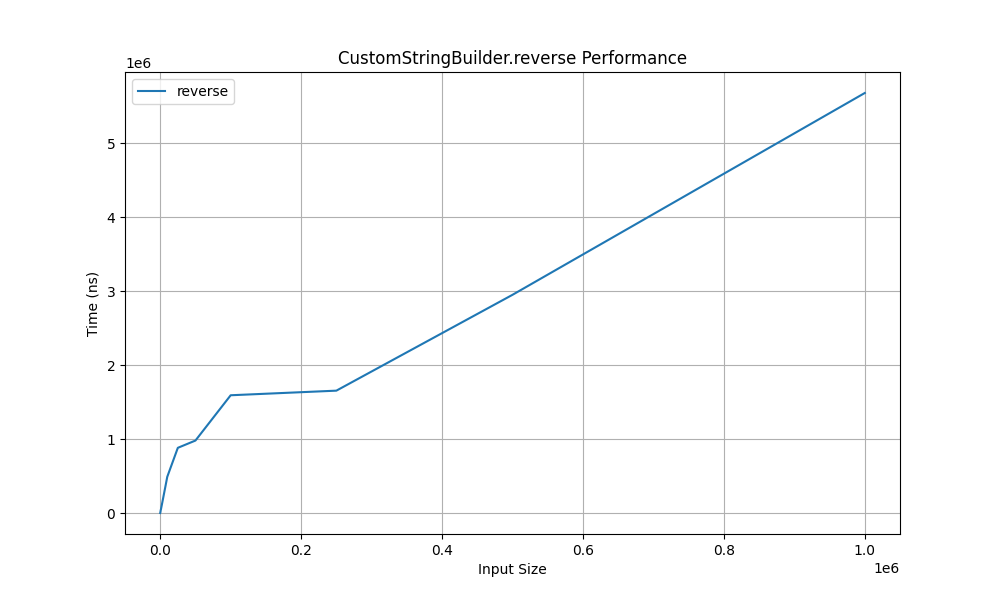
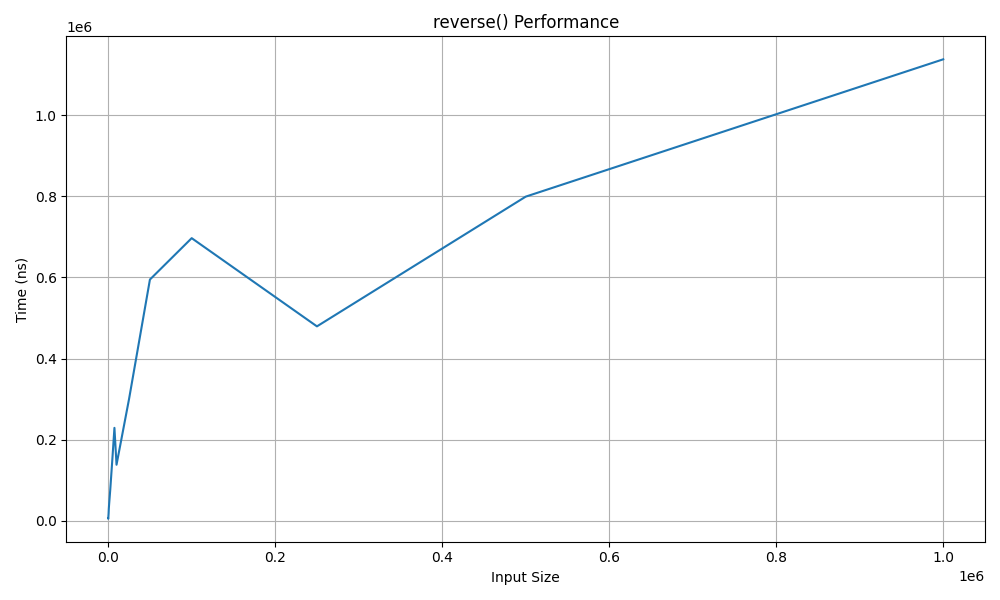
updating performance tests

diff --git a/PerformanceTesting/CustomStringBuilder/CustomStringBuilderPerformanceTest.py b/PerformanceTesting/CustomStringBuilder/CustomStringBuilderPerformanceTest.py
@@ -1,65 +1,62 @@
 import matplotlib.pyplot as plt
 import numpy as np
 import csv
+from collections import defaultdict
 
-sizes = []
-append_times = []
-insert_times = []
-delete_times = []
-replace_times = []
-reverse_times = []
-index_of_times = []
-last_index_of_times = []
-to_string_times = []
-substring_times = []
+filename = '/Users/drpsychoben/PycharmProjects/StringBuilderCharts/CustomStringBuilder/CustomStringBuilder_performance.csv'
 
-with open('/Users/drpsychoben/PycharmProjects/StringBuilderCharts/CustomStringBuilder/CustomStringBuilder_performance.csv', 'r') as csvfile:
-    reader = csv.DictReader(csvfile)
+# Maps size -> method name -> list of times
+size_to_times = defaultdict(lambda: defaultdict(list))
+
+with open(filename, 'r') as csvfile:
+    reader = csv.DictReader(csvfile, delimiter=';')
+
+    # Strip quotes from fieldnames
+    raw_headers = [h.strip().strip('"') for h in reader.fieldnames]
+    method_names_raw = [h for h in raw_headers if h.lower() != 'size']
+
     for row in reader:
-        sizes.append(int(row['Size']))
-        append_times.append(int(row['Append']))
-        insert_times.append(int(row['Insert']))
-        delete_times.append(int(row['Delete']))
-        replace_times.append(int(row['Replace']))
-        reverse_times.append(int(row['Reverse']))
-        index_of_times.append(int(row['IndexOf']))
-        last_index_of_times.append(int(row['LastIndexOf']))
-        to_string_times.append(int(row['ToString']))
-        substring_times.append(int(row['Substring']))
+        size_str = row['Size'].strip().strip('"')
+        try:
+            size = int(size_str)
+        except ValueError:
+            continue
 
-# Convert lists to numpy arrays
-sizes = np.array(sizes)
-append_times = np.array(append_times)
-insert_times = np.array(insert_times)
-delete_times = np.array(delete_times)
-replace_times = np.array(replace_times)
-reverse_times = np.array(reverse_times)
-index_of_times = np.array(index_of_times)
-last_index_of_times = np.array(last_index_of_times)
-to_string_times = np.array(to_string_times)
-substring_times = np.array(substring_times)
+        for method in method_names_raw:
+            val_str = row.get(f'"{method}"') or row.get(method) or ''
+            try:
+                val = int(val_str.strip().strip('"'))
+            except ValueError:
+                val = 0
+            size_to_times[size][method].append(val)
 
-methods = [
-    ("append", append_times),
-    ("insert", insert_times),
-    ("delete", delete_times),
-    ("replace", replace_times),
-    ("reverse", reverse_times),
-    ("indexOf", index_of_times),
-    ("lastIndexOf", last_index_of_times),
-    ("toString", to_string_times),
-    ("substring", substring_times),
-]
+# Aggregate: compute average times per method per input size
+sizes = sorted(size_to_times.keys())
+method_times = {method: [] for method in method_names_raw}
 
-for method_name, times in methods:
+for size in sizes:
+    for method in method_names_raw:
+        values = size_to_times[size][method]
+        avg = sum(values) / len(values) if values else 0
+        method_times[method].append(avg)
+
+# Plotting
+sizes_np = np.array(sizes)
+
+for method, times in method_times.items():
+    times_np = np.array(times)
+    if len(times_np) != len(sizes_np):
+        print(f"Skipping {method}: mismatched data length ({len(times_np)} vs {len(sizes_np)})")
+        continue
+
     plt.figure(figsize=(10, 6))
-    plt.plot(sizes, times, marker='', linestyle='-', label=method_name, linewidth=1.5)
+    plt.plot(sizes_np, times_np, linestyle='-', label=method, linewidth=1.5)
     plt.xlabel('Input Size')
     plt.ylabel('Time (ns)')
-    plt.title(f'CustomStringBuilder.{method_name} Performance')
+    plt.title(f'{method} Performance')
     plt.grid(True)
-    plt.legend()
-    plt.savefig(f'{method_name}_performance.png')
+    plt.tight_layout()
+    plt.savefig(f'{method.replace(" ", "_").replace("(", "").replace(")", "")}_performance.png')
     plt.close()
 
-print("Charts generated: " + ", ".join(f"{name}_performance.png" for name, _ in methods))
+print("✅ Charts generated for all methods.")

diff --git a/PerformanceTesting/CompareCustomStringBuilderToStringBuilder/compare.py b/PerformanceTesting/CompareCustomStringBuilderToStringBuilder/compare.py
@@ -4,33 +4,48 @@ import csv
 def read_csv(filename):
     data = {}
     with open(filename, 'r') as f:
-        reader = csv.DictReader(f)
+        reader = csv.DictReader(f, delimiter=';')
+        # Normalize headers by stripping quotes from keys
+        headers = [h.strip('"') for h in reader.fieldnames]
+
         for row in reader:
-            size = int(row['Size'])
-            for key, value in row.items():
+            # Build a clean dict with stripped keys and values
+            clean_row = {h.strip('"'): v for h, v in row.items()}
+            size = int(clean_row['Size'])
+            for key, value in clean_row.items():
                 if key == 'Size':
                     continue
                 if key not in data:
                     data[key] = []
-                data[key].append((size, int(value)))
+                # Defensive: Some values may be empty, skip or convert safely
+                try:
+                    val = int(value)
+                except ValueError:
+                    val = 0
+                data[key].append((size, val))
     return data
 
 # Load data from both CSVs
 custom_data = read_csv('/Users/drpsychoben/PycharmProjects/StringBuilderCharts/Compare/CustomStringBuilder_performance.csv')
 stringbuilder_data = read_csv('/Users/drpsychoben/PycharmProjects/StringBuilderCharts/Compare/StringBuilder_performance.csv')
 
-methods = sorted(custom_data.keys())  # Sort for consistent order
-sizes = [size for size, _ in custom_data['Append']]
+# Get the method names sorted for consistent plotting
+methods = sorted(custom_data.keys())
 
-# Create a single figure with subplots stacked vertically
+# Pick sizes from any method (all should have the same sizes)
+some_method = methods[0]
+sizes = [size for size, _ in custom_data[some_method]]
+
+# Create a figure with subplots stacked vertically
 n_methods = len(methods)
 fig, axes = plt.subplots(nrows=n_methods, ncols=1, figsize=(10, 4 * n_methods))
-axes = [axes] if n_methods == 1 else axes  # Handle single method case
+if n_methods == 1:
+    axes = [axes]  # Make iterable
 
 # Plot each method's comparison
 for idx, method in enumerate(methods):
     custom_times = [time for _, time in custom_data[method]]
-    sb_times = [time for _, time in stringbuilder_data[method]]
+    sb_times = [time for _, time in stringbuilder_data.get(method, [(0, 0)] * len(sizes))]
 
     axes[idx].plot(sizes, custom_times, label='CustomStringBuilder')
     axes[idx].plot(sizes, sb_times, label='StringBuilder')
@@ -40,7 +55,6 @@ for idx, method in enumerate(methods):
     axes[idx].legend()
     axes[idx].grid(True)
 
-# Adjust layout and save
 plt.tight_layout()
 plt.savefig('All_Performance_Comparisons.png', dpi=300, bbox_inches='tight')
 plt.close()
